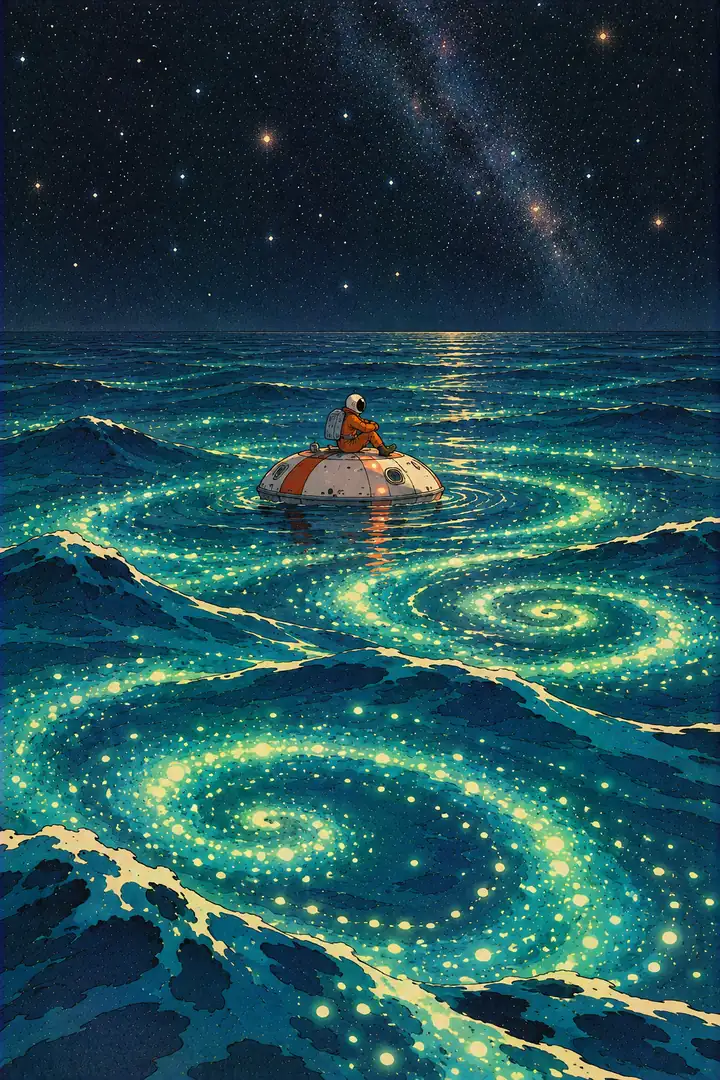
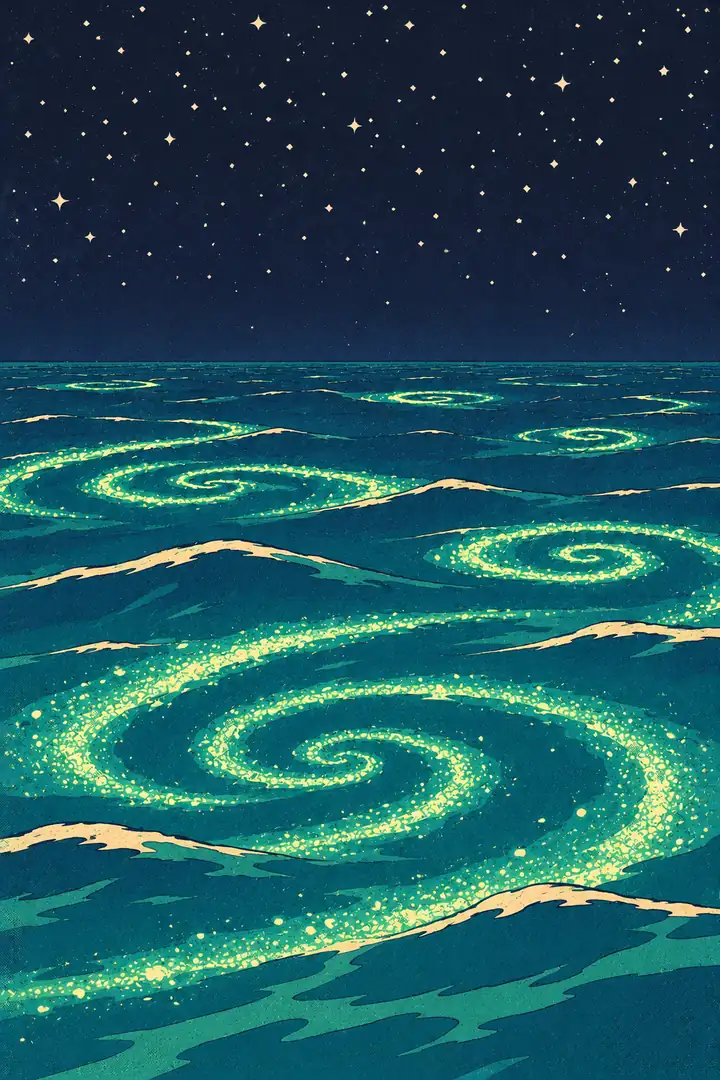
Refaire les images du monde océan en paysages seuls
Claude-Session: https://claude.ai/code/session_01RhB1pCaJN15SemUTb72qnL

diff --git a/illustrations/PROMPTS.md b/illustrations/PROMPTS.md
@@ -6,7 +6,7 @@ Pour chaque image : colle le prompt maître dans ChatGPT, puis la description ju
 
 Toutes les images sont à refaire en paysages seuls : les anciennes, avec un explorateur dedans, restent en place jusqu’à ce que leur nouvelle version arrive, puis je les remplace une à une. Les nouveaux mondes (bibliothèque, chantier, champignon, cimetière, plat, dessiné) entrent dans la galaxie avec leur première image.
 
-Refaites en paysages seuls : 21 sur 54 (`rocheux`, `rocheux-b`, `rocheux-c`, `gazeux`, `gazeux-b`, `gazeux-c`, `desert`, `desert-b`, `desert-c`, `glace`, `glace-b`, `glace-c`, `volcan`, `volcan-b`, `volcan-c`, `toxique`, `toxique-b`, `toxique-c`, `crateres`, `crateres-b`, `crateres-c`).
+Refaites en paysages seuls : 24 sur 54 (`rocheux`, `rocheux-b`, `rocheux-c`, `gazeux`, `gazeux-b`, `gazeux-c`, `desert`, `desert-b`, `desert-c`, `glace`, `glace-b`, `glace-c`, `volcan`, `volcan-b`, `volcan-c`, `toxique`, `toxique-b`, `toxique-c`, `crateres`, `crateres-b`, `crateres-c`, `ocean`, `ocean-b`, `ocean-c`).
 
 ## Le prompt maître
 
